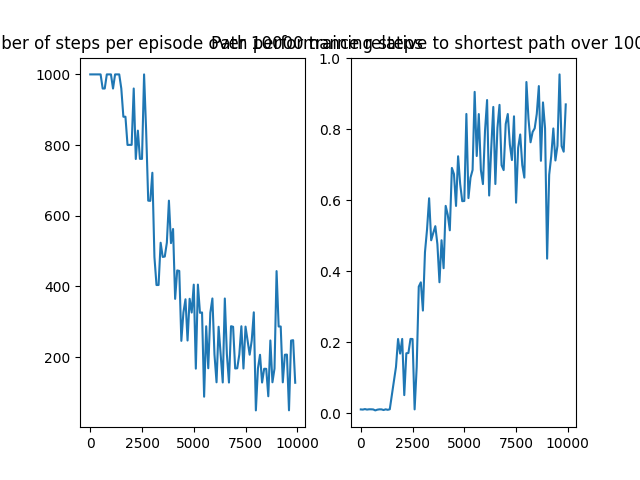
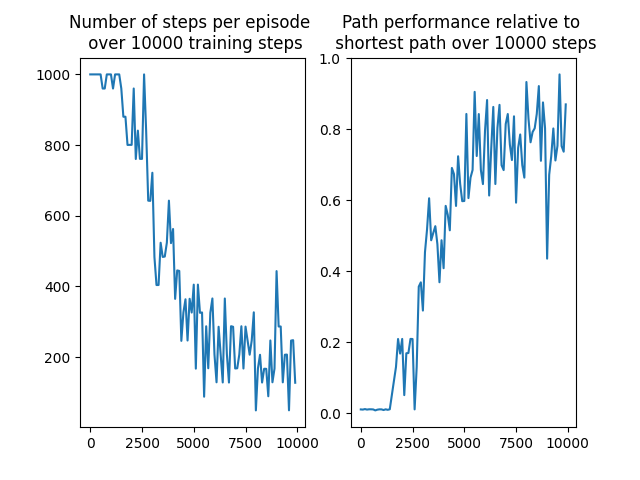
Puth nb_steps and path titles on two lines

Changed region(s): [[0.0, 0.0312, 1.0, 0.125]]

diff --git a/src/algorithms/tabular_Q_learning.py b/src/algorithms/tabular_Q_learning.py
@@ -108,10 +108,10 @@ class Tabular_Q_learning():
         if eval:
             plt.subplot(1, 2, 1)
             plt.plot(eval_step_interval * np.arange(len(steps_per_episode)), steps_per_episode)
-            plt.title(f"Number of steps per episode over {num_steps} training steps")
+            plt.title(f"Number of steps per episode \n over {num_steps} training steps")
             plt.subplot(1, 2, 2)
             plt.plot(eval_step_interval * np.arange(len(steps_per_episode)), efficiencies)
-            plt.title(f"Path performance relative to shortest path over {num_steps} steps")
+            plt.title(f"Path performance relative to \n shortest path over {num_steps} steps")
             plt.show()
 
     def eval(self, num_episodes=25):

diff --git a/src/algorithms/tabular_dynaQ_plus.py b/src/algorithms/tabular_dynaQ_plus.py
@@ -183,10 +183,10 @@ class Tabular_DynaQ_plus():
         if eval:
             plt.subplot(1, 2, 1)
             plt.plot(eval_step_interval * np.arange(len(steps_per_episode)), steps_per_episode)
-            plt.title(f"Number of steps per episode over {num_steps} training steps")
+            plt.title(f"Number of steps per episode \n over {num_steps} training steps")
             plt.subplot(1, 2, 2)
             plt.plot(eval_step_interval * np.arange(len(steps_per_episode)), efficiencies)
-            plt.title(f"Path performance relative to shortest path over {num_steps} steps")
+            plt.title(f"Path performance relative to \n shortest path over {num_steps} steps")
             plt.show()
 
     def eval(self, num_episodes=25):

diff --git a/src/algorithms/tabular_dynaQ.py b/src/algorithms/tabular_dynaQ.py
@@ -164,10 +164,10 @@ class Tabular_DynaQ():
         if eval:
             plt.subplot(1, 2, 1)
             plt.plot(eval_step_interval * np.arange(len(steps_per_episode)), steps_per_episode)
-            plt.title(f"Number of steps per episode over {num_steps} training steps")
+            plt.title(f"Number of steps per episode \n over {num_steps} training steps")
             plt.subplot(1, 2, 2)
             plt.plot(eval_step_interval * np.arange(len(steps_per_episode)), efficiencies)
-            plt.title(f"Path performance relative to shortest path over {num_steps} steps")
+            plt.title(f"Path performance relative to \n shortest path over {num_steps} steps")
             plt.show()
 
     def eval(self, num_episodes=25):
